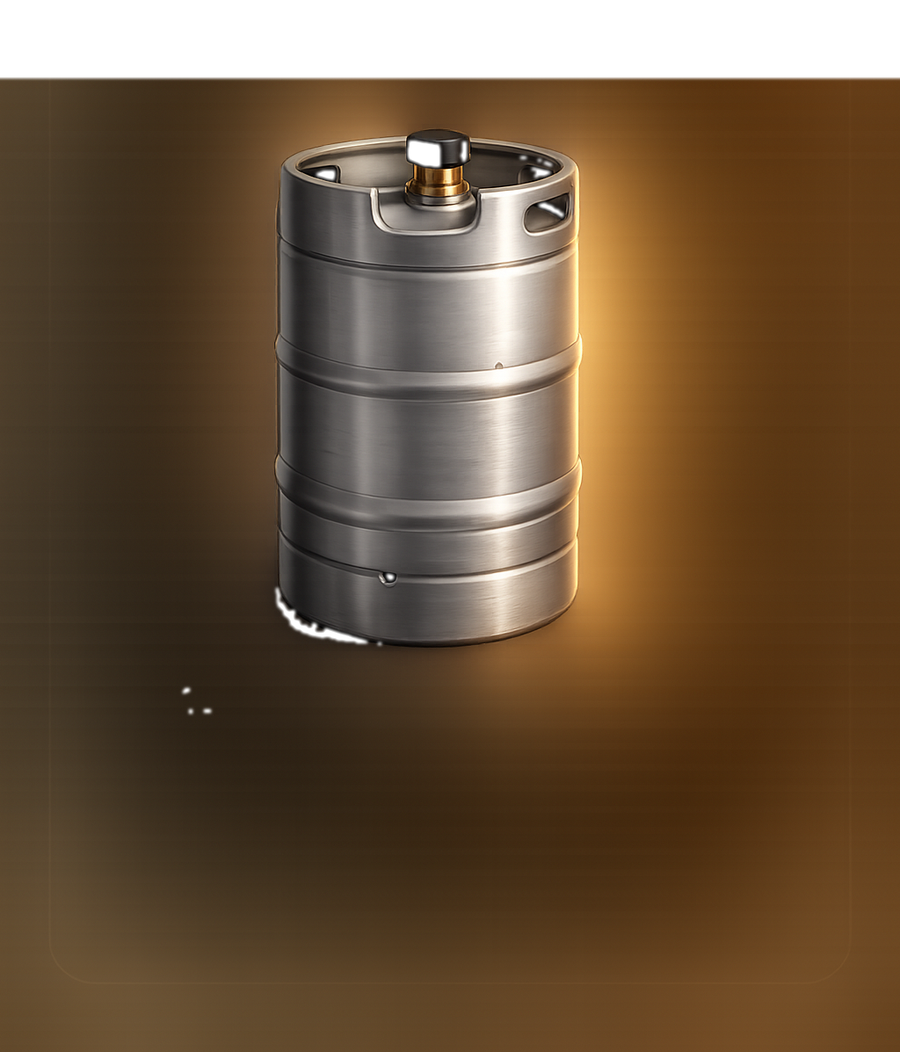
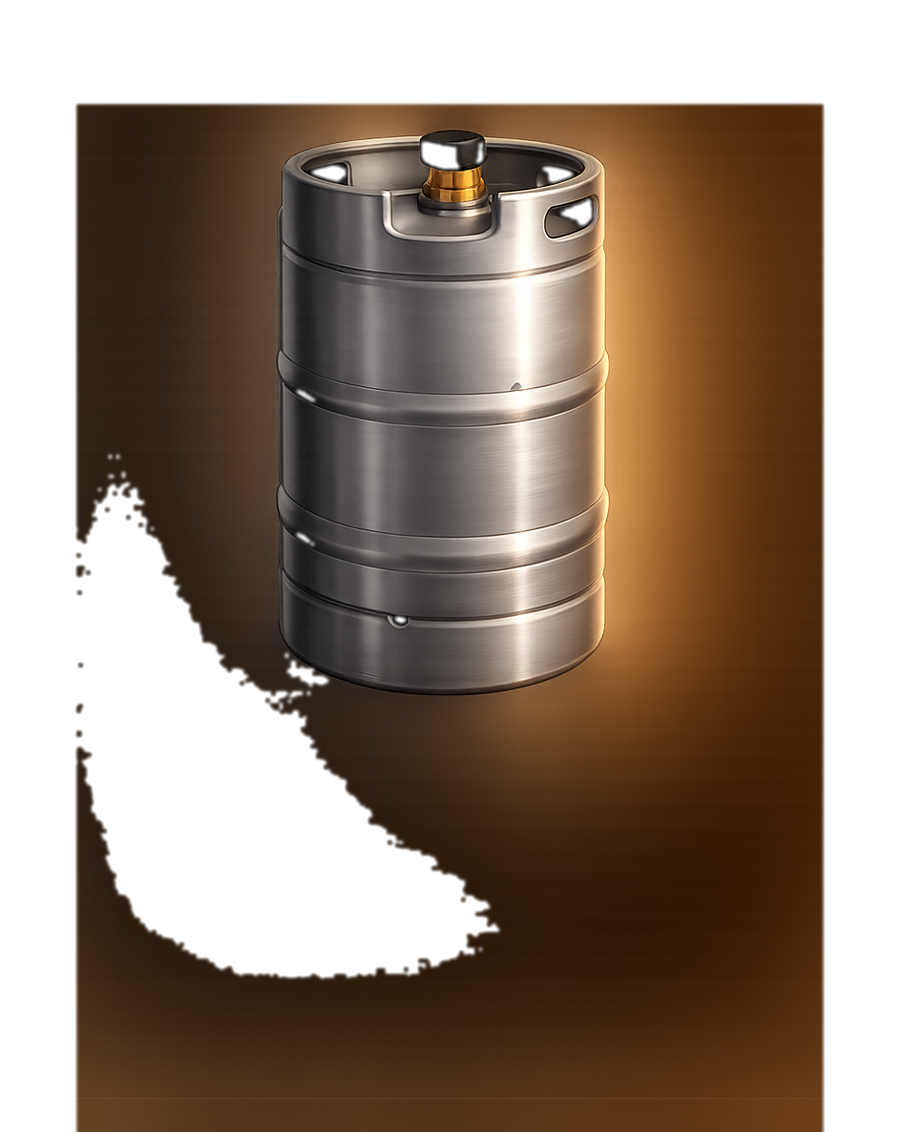
Add files via upload

diff --git a/src/App.css b/src/App.css
@@ -935,57 +935,88 @@ body::before {
 }
 
 
-/* ===== HOTFIX: Header/menu not clickable + HowItWorks buttons not clickable =====
-   Cause: decorative overlays/pseudo-elements can sit above interactive UI.
-   Fix: enforce z-index for header, and ensure HowItWorks decorative layers never capture clicks.
-*/
+/* ===== FIX: clickability for header + HowItWorks (scoped, non-destructive) ===== */
 
-/* Header always above page content */
-header, .header, .navbar, .topbar, .site-header {
+/* Keep header above any section overlays */
+header, .site-header, .Header, .navbar, .topbar {
   position: sticky;
   top: 0;
-  z-index: 9999 !important;
+  z-index: 10000;
+}
+/* If the header is fixed in JSX, still keep it above */
+header * {
   pointer-events: auto;
 }
 
-/* If your header is fixed instead of sticky, keep it on top */
-header[style*="position: fixed"], .navbar[style*="position: fixed"]{
-  z-index: 9999 !important;
-}
-
-/* Ensure any hero/section overlays don't block clicks */
+/* Common decorative overlays should never block clicks */
 .hero::before, .hero::after,
 .section::before, .section::after,
-.bg-overlay, .page-overlay {
+.bg-overlay, .page-overlay,
+.gradient-overlay, .noise-overlay {
   pointer-events: none !important;
 }
 
-/* HowItWorks: decorative media slot must never block clicks */
+/* Don't let HowItWorks decorative layers steal clicks */
 .how-card__mediaSlot,
 .how-card__mediaSlot::before,
 .how-card__mediaSlot::after,
-.how-card__obj,
-.how-keg-pro,
-.how-card__frontBody {
-  pointer-events: none !important;
+.how-keg-pro {
+  pointer-events: none;
 }
-
-/* HowItWorks: keep interactive back content above everything */
+/* Ensure back face CTA stays clickable */
+.how-card__cta,
 .how-card__back,
-.how-card__backBody,
-.how-card__cta {
-  position: relative;
-  z-index: 20 !important;
-  pointer-events: auto !important;
-}
-
-/* Also keep the card itself interactive for flip */
-.how-card, .how-card__inner, .how-card__face {
+.how-card__backBody {
   pointer-events: auto;
+  position: relative;
+  z-index: 5;
 }
 
-/* If something in the HowItWorks section creates an overlay, force it behind */
-.how-card__front::before, .how-card__front::after,
-.how-card__back::before, .how-card__back::after {
-  pointer-events: none !important;
+
+/* ===== HowItWorks Step 2 visual (scoped) ===== */
+.how-card[data-step="2"] .how-card__mediaSlot{
+  position: relative;
+  height: 320px;          /* gives room for protagonist */
+  background: none;       /* keep clean */
+  overflow: visible;
+}
+.how-card[data-step="2"] .how-keg-pro{
+  position: absolute;
+  left: 50%;
+  top: 62%;
+  transform: translate(-50%, -50%);
+  width: min(520px, 92%);
+  height: auto;
+  filter: drop-shadow(0 40px 70px rgba(0,0,0,.75));
+  transition: transform .45s cubic-bezier(.22,.68,0,1.01), filter .35s ease;
+}
+.how-card:hover[data-step="2"] .how-keg-pro,
+.how-card[data-step="2"]:hover .how-keg-pro{
+  transform: translate(-50%, calc(-50% - 10px));
+  filter: drop-shadow(0 58px 92px rgba(0,0,0,.85));
+}
+.how-card[data-step="2"] .how-card__mediaSlot::after{
+  content:"";
+  position:absolute;
+  inset:-10% -10% -30% -10%;
+  background: radial-gradient(700px 320px at 50% 45%, rgba(255,170,0,.16), transparent 62%);
+  pointer-events:none;
+}
+.how-card[data-step="2"] .how-card__mediaSlot::before{
+  content:"";
+  position:absolute;
+  bottom: 18px;
+  left: 50%;
+  transform: translateX(-50%);
+  width: 62%;
+  height: 26px;
+  background: radial-gradient(ellipse at center, rgba(0,0,0,.55), transparent 72%);
+  filter: blur(14px);
+  opacity: .85;
+  pointer-events:none;
+}
+
+/* Reduce muddy brown on HowItWorks cards (keep amber accents) */
+.how-card__front{
+  background: radial-gradient(1000px 520px at 50% 0%, rgba(255,170,0,.10), transparent 55%), rgba(0,0,0,.42);
 }

diff --git a/src/components/HowItWorks.jsx b/src/components/HowItWorks.jsx
@@ -137,7 +137,16 @@ const HowItWorks = () => {
                           decoding="async"
                         />
                       )}
-</div>
+                      {s.id === 2 && (
+                        <img
+                          className="how-card__obj how-card__obj--keg"
+                          src="/howitworks/step2.png"
+                          alt=""
+                          loading="lazy"
+                          decoding="async"
+                        />
+                      )}
+                    </div>
                     </div>
                   </div>
 
@@ -154,7 +163,7 @@ const HowItWorks = () => {
 
                       <button
                         className="how-card__cta"
-                        onClick={(e) => {
+                        onClick={(e) = type="button"> {
                           e.stopPropagation();
                           s.action();
                           setActive(null);
